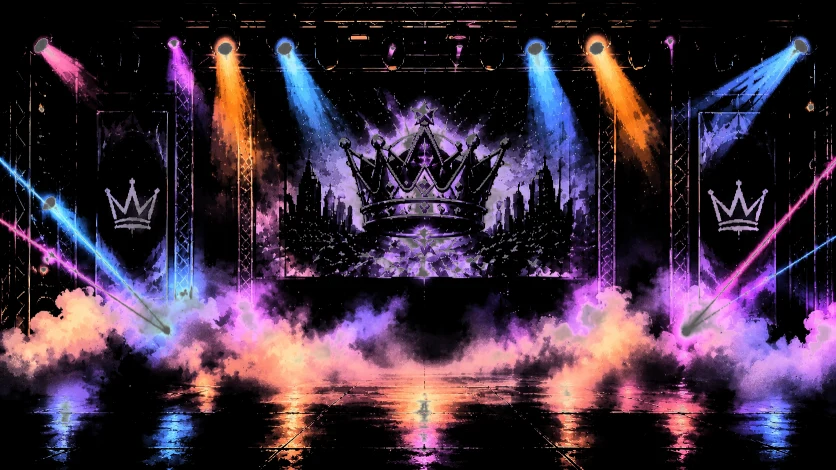
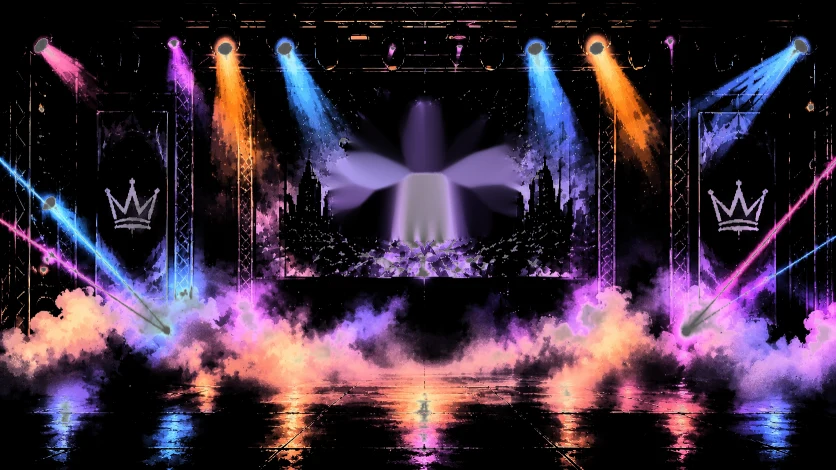
Show: crowd arms/phones cut out and sway individually, crowd hops on the beat, pads cut out and light per hit, crown cut from the screen and floats

Changed region(s): [[0.3732, 0.2085, 0.622, 0.5362]]

diff --git a/show.js b/show.js
@@ -144,21 +144,21 @@ function makeStage(canvas,seed){
  }
  const pc=(g,A,k,x,y,sc)=>{const r=S.plate.meta.r[k];g.drawImage(A,r[0],r[1],r[2],r[3],x,y,r[2]*sc,r[3]*sc)};
  const sz=k=>S.plate.meta.r[k];
- function stageBase(g,Ly){g.drawImage(Ly.stage,0,0,W,H)}
+ function stageBase(g,Ly,cy,glow){g.drawImage(Ly.stage,0,0,W,H);const m=S.plate.meta,r=m.r.crown;if(!r)return;const x=m.crown[0]*PS,y=m.crown[1]*PS+(cy||0);g.drawImage(Ly.atlas,r[0],r[1],r[2],r[3],x,y,r[2]*PS,r[3]*PS);
+  if(glow>.02){g.save();g.globalCompositeOperation='lighter';g.globalAlpha=Math.min(.6,glow);g.drawImage(Ly.atlas,r[0],r[1],r[2],r[3],x,y,r[2]*PS,r[3]*PS);g.restore()}}
  function speakers(g,A,pump){
   pump=pump||0;{const r=sz('speakers'),sc=SPK.s*(1+pump*.05);pc(g,A,'speakers',SPK.x+r[2]*(SPK.s-sc)/2,SPK.b-r[3]*sc,sc)}
   {const r=sz('monitors'),sc=MON.s*(1+pump*.05);pc(g,A,'monitors',MON.x+r[2]*(MON.s-sc)/2,MON.b-r[3]*sc,sc)}
  }
  /* MPC pads (4 x 3 visible) in the producer piece's own pixels */
- const PADW=p=>{const c=p%4,r=(p/4)|0;return[BODY.x+(92+c*21)*BODY.s,BODY.y+(156+r*8)*BODY.s]};
- function producer(g,A,po){
+  function producer(g,A,po){
   po=po||{bounce:0,nod:0,hands:[0,0],pads:null,hue:230,t:0};
   pc(g,A,'table',TBL.x,TBL.y,TBL.s);
   const bs=BODY.s,dy=po.bounce*2.4;
   pc(g,A,'torso',BODY.x,BODY.y+dy,bs);
   {const px=BODY.x+150*bs,py=BODY.y+dy+86*bs,r=sz('head');g.save();g.translate(px,py+po.nod*2.2);g.rotate(po.nod*.06+Math.sin(po.t*1.3)*.012);g.drawImage(A,r[0],r[1],r[2],r[3],-150*bs,-86*bs,r[2]*bs,r[3]*bs);g.restore()}
   pc(g,A,'mpc',BODY.x,BODY.y,bs);
-  if(po.pads){g.save();g.globalCompositeOperation='lighter';for(let p=0;p<12;p++){const a=po.pads[p];if(a<.04)continue;const[hx,hy]=PADW(p),gr=g.createRadialGradient(hx,hy,0,hx,hy,15);gr.addColorStop(0,`hsla(${(p*47+po.hue)%360},100%,74%,${Math.min(1,a)})`);gr.addColorStop(1,'rgba(0,0,0,0)');g.fillStyle=gr;g.fillRect(hx-15,hy-15,30,30)}g.restore()}
+  if(po.pads){const pd=S.plate.meta.pads;g.save();pd.forEach(([px,py],p)=>{const a=po.pads[p%12];if(a<.04)return;const r=sz('pad'+p),x=BODY.x+px*bs,y=BODY.y+py*bs;g.globalAlpha=Math.min(1,a*1.15);g.drawImage(A,r[0],r[1],r[2],r[3],x,y,r[2]*bs,r[3]*bs);g.globalCompositeOperation='lighter';g.globalAlpha=Math.min(.7,a*.6);g.drawImage(A,r[0],r[1],r[2],r[3],x-1,y-1,r[2]*bs+2,r[3]*bs+2);g.globalCompositeOperation='source-over'});g.restore()}
   pc(g,A,'hl',BODY.x,BODY.y+dy*.6+po.hands[0]*3.2,bs);pc(g,A,'hr',BODY.x,BODY.y+dy*.6+po.hands[1]*3.2,bs);
  }
  function crowdStatic(g,A){const r=sz('crowd');g.drawImage(A,r[0],r[1],r[2],r[3],CRW.x,CRW.y,r[2]*CRW.s,r[3]*CRW.s)}
@@ -225,7 +225,8 @@ function makeStage(canvas,seed){
   const sh=st.shake*5;c.translate(W/2+(Math.random()-.5)*sh,H/2+(Math.random()-.5)*sh);c.scale(st.cam.z,st.cam.z);c.translate(-W/2-clamp(st.cam.x,-lim,lim),-H/2-clamp(st.cam.y,-limy,limy));
   const pump=fx.speakers!==false?clamp(bass*.5+st.bounce*.7+st.cheer*.2,0,1):0;
   /* 1. the stage plate (cross-fades between per-beat looks) */
-  if(Ly){const pv=st.lookT<1&&st.prevLook!==st.look?layersFor(st.prevLook):null;if(pv){stageBase(c,pv);c.globalAlpha=st.lookT;stageBase(c,Ly);c.globalAlpha=1}else stageBase(c,Ly)}
+  const crY=mode==='live'?Math.sin(T*1.15)*5-st.bounce*4:Math.sin(T*.8)*3,crG=mode==='live'?bass*.25+st.bounce*.3:0;
+  if(Ly){const pv=st.lookT<1&&st.prevLook!==st.look?layersFor(st.prevLook):null;if(pv){stageBase(c,pv,crY,crG);c.globalAlpha=st.lookT;stageBase(c,Ly,crY,crG);c.globalAlpha=1}else stageBase(c,Ly,crY,crG)}
   else{c.fillStyle='#0b0716';c.fillRect(0,0,W,H)}
   /* 2. the venue dims in quiet moments; the plate's own lights come back up with the music */
   const dim=clamp(.6-int*.5,0,.58);if(dim>.02){c.fillStyle=`rgba(5,3,14,${dim})`;c.fillRect(0,0,W,H)}
@@ -267,13 +268,12 @@ function makeStage(canvas,seed){
   {const g=c.createLinearGradient(0,440,0,640);g.addColorStop(0,'rgba(0,0,0,0)');g.addColorStop(.5,`hsla(${hue+20},70%,60%,${.06+int*.07+bass*.04})`);g.addColorStop(1,'rgba(0,0,0,0)');c.save();c.globalCompositeOperation='screen';c.fillStyle=g;c.fillRect(0,440,W,200);c.restore()}
   /* 8. the crowd: one smooth mesh warp so people sway and wave without tearing; energy follows the music */
   const E=st.energy;
-  if(A){const cw=MT.r.crowd,sc=CRW.s,SW=8,NS=6,sh0=cw[3]/NS,bump=(st.bounce*2.4+st.cheer*6)*(.4+E),amp=E*3.2+.9;
-   const off=(sx,w)=>{const n=.55+.45*Math.sin(sx*.021+seedP)*Math.sin(sx*.0073+2.1);return[Math.max(0,Math.sin(sx*.012+T*(2+E*2.2)+seedP))*amp*w*n+bump*w*(.5+.5*Math.sin(sx*.03+T*3)),Math.sin(sx*.017+T*(2.6+E*1.6)+seedP*2)*(.6+E*2.4)*w*w]};
-   for(let sx=0;sx<cw[2];sx+=SW){const ww=Math.min(SW,cw[2]-sx);
-    for(let j=0;j<NS;j++){const wgt=Math.pow(1-j/(NS-.5),1.5),[up,dx]=off(sx,wgt),sy=j*sh0,pad=j<NS-1?2:0;
-     c.drawImage(A,cw[0]+sx,cw[1]+sy,ww,Math.min(sh0+pad,cw[3]-sy),CRW.x+sx*sc+dx,CRW.y+sy*sc-up,ww*sc+.6,Math.min(sh0+pad,cw[3]-sy)*sc)}}
-   /* phone screens twinkle (softer once the crowd calms) */
-   if(fx.flash!==false&&MT.phones){c.save();c.globalCompositeOperation='lighter';MT.phones.forEach((p,i)=>{const wgt=Math.pow(Math.max(0,1-p[1]/cw[3]),1.5),[up,dx]=off(p[0],wgt),px=CRW.x+p[0]*sc+dx,py=CRW.y+p[1]*sc-up,r=Math.max(8,p[2]*sc*1.5),a=(.12+.28*(.5+.5*Math.sin(T*(3+(i%5)*1.3)+i*2.1)))*(.5+(1-E)*.5+(q.seg.preset==='breakdown'?.5:0)),gr=c.createRadialGradient(px,py,0,px,py,r);gr.addColorStop(0,`rgba(190,225,255,${a})`);gr.addColorStop(1,'rgba(0,0,0,0)');c.fillStyle=gr;c.fillRect(px-r,py-r,r*2,r*2)});c.restore()}}
+  if(A){const cw=MT.r.crowd,sc=CRW.s,bp=(T/beatLen)%1,hop=playing?E*Math.pow(Math.max(0,Math.sin(Math.PI*bp)),2)*3.2:0,jy=hop+(st.bounce*1.6+st.cheer*3)*(.4+E);
+   c.drawImage(A,cw[0],cw[1],cw[2],cw[3],CRW.x,CRW.y-jy,cw[2]*sc,cw[3]*sc);
+   MT.arms.forEach(([ax,ay,pvx,pvy],i)=>{const r=MT.r['arm'+i],ang=Math.sin(T*(1.5+(i%5)*.33)+i*1.7+seedP)*(.04+E*.15)+st.cheer*.08*(i%2?1:-1)+hop*.012*(i%3-1),lift=hop*.6+st.cheer*2*E;
+    c.save();c.translate(CRW.x+pvx*sc,CRW.y+pvy*sc-jy-lift);c.rotate(ang);c.drawImage(A,r[0],r[1],r[2],r[3],(ax-pvx)*sc,(ay-pvy)*sc,r[2]*sc,r[3]*sc);c.restore()});
+  /* phone screens twinkle (softer once the crowd calms) */
+   if(fx.flash!==false&&MT.phones){c.save();c.globalCompositeOperation='lighter';MT.phones.forEach((p,i)=>{const px=CRW.x+p[0]*sc,py=CRW.y+p[1]*sc-jy,r=Math.max(8,p[2]*sc*1.5),a=(.12+.28*(.5+.5*Math.sin(T*(3+(i%5)*1.3)+i*2.1)))*(.5+(1-E)*.5+(q.seg.preset==='breakdown'?.5:0)),gr=c.createRadialGradient(px,py,0,px,py,r);gr.addColorStop(0,`rgba(190,225,255,${a})`);gr.addColorStop(1,'rgba(0,0,0,0)');c.fillStyle=gr;c.fillRect(px-r,py-r,r*2,r*2)});c.restore()}}
   /* strobe flash on drops */
   if(st.flash>.02&&fx.flash!==false){c.fillStyle=`rgba(255,255,255,${Math.min(.5,st.flash*.45)})`;c.fillRect(0,0,W,H)}
   /* fireworks and confetti (unlocked by hearts, plus the finale) */
@@ -300,7 +300,7 @@ function makeStage(canvas,seed){
 
 /* ---------- helpers for loading ---------- */
 async function loadPlate(){
- const base=u=>new URL(u,document.baseURI).href,V='?v=6',ld=u=>new Promise(r=>{const i=new Image();i.onload=()=>r(i);i.onerror=()=>r(null);i.src=base(u+V)});
+ const base=u=>new URL(u,document.baseURI).href,V='?v=7',ld=u=>new Promise(r=>{const i=new Image();i.onload=()=>r(i);i.onerror=()=>r(null);i.src=base(u+V)});
  const [atlas,stage,lights,meta]=await Promise.all([ld('show-atlas.webp'),ld('show-stage.webp'),ld('show-lights.webp'),fetch(base('show-atlas.json'+V)).then(r=>r.json()).catch(()=>null)]);
  return(atlas&&stage&&lights&&meta)?{atlas,stage,lights,meta}:null;
 }

diff --git a/index.html b/index.html
@@ -820,7 +820,7 @@ $('#search').onclick=()=>toast('SEARCH COMING SOON');
 const CAMF={beats:null,kits:[.108,.705,1.8],show:[.287,.15,1.8],about:[.897,.43,1.8]};
 let camT='beats';const cam={fx:.5,fy:.5,z:1};
 function hideSeo(){const e=document.getElementById('seo');if(e)e.style.display='none'}
-async function openShow(){try{if(!window.MZShow)await loadScript('show.js?v=9');if(!window.showPageOpen)await loadScript('showpage.js?v=8');await window.showPageOpen(document.getElementById('shRoot'))}catch(e){toast('SHOW FAILED TO LOAD')}}
+async function openShow(){try{if(!window.MZShow)await loadScript('show.js?v=10');if(!window.showPageOpen)await loadScript('showpage.js?v=8');await window.showPageOpen(document.getElementById('shRoot'))}catch(e){toast('SHOW FAILED TO LOAD')}}
 function showView(v){
  camT=v==='beat'?(pageKind==='p'?'kits':'beats'):v;
  {const dl=$('#deals');if(dl)dl.style.display=(v==='about'||v==='show')?'none':''}
@@ -1397,7 +1397,7 @@ async function boRender(){
  document.getElementById('bo2b').style.display='none';document.getElementById('bo2c').style.display='none';
  if(window.emailClose)emailClose();if(window.showMakerClose)showMakerClose();
  if(tab==='email'){document.querySelector('#bo .bo2').style.display='none';if(window.studioClose)studioClose();try{if(!window.emailOpen)await loadScript('email.js?v=2');await emailOpen()}catch(e){toast('EMAIL STUDIO FAILED TO LOAD')}return}
- if(tab==='show'){document.querySelector('#bo .bo2').style.display='none';if(window.studioClose)studioClose();try{if(!window.MZShow)await loadScript('show.js?v=9');if(!window.showMakerOpen)await loadScript('showmaker.js?v=8');await showMakerOpen()}catch(e){toast('SHOW MAKER FAILED TO LOAD')}return}
+ if(tab==='show'){document.querySelector('#bo .bo2').style.display='none';if(window.studioClose)studioClose();try{if(!window.MZShow)await loadScript('show.js?v=10');if(!window.showMakerOpen)await loadScript('showmaker.js?v=8');await showMakerOpen()}catch(e){toast('SHOW MAKER FAILED TO LOAD')}return}
  if(vid){try{await loadStudio();await studioOpen()}catch(e){toast('VIDEO STUDIO FAILED TO LOAD')}return}
  if(window.studioClose)studioClose();
  document.getElementById('bo2b').style.display=tab==='promo'?'':'none';
